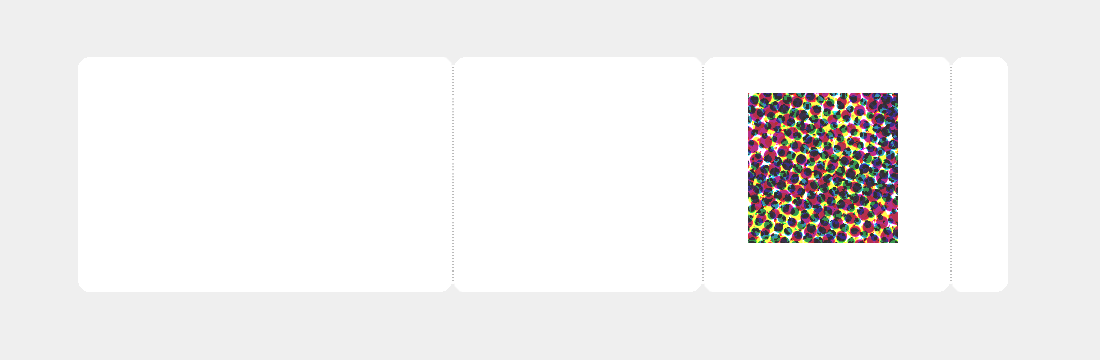
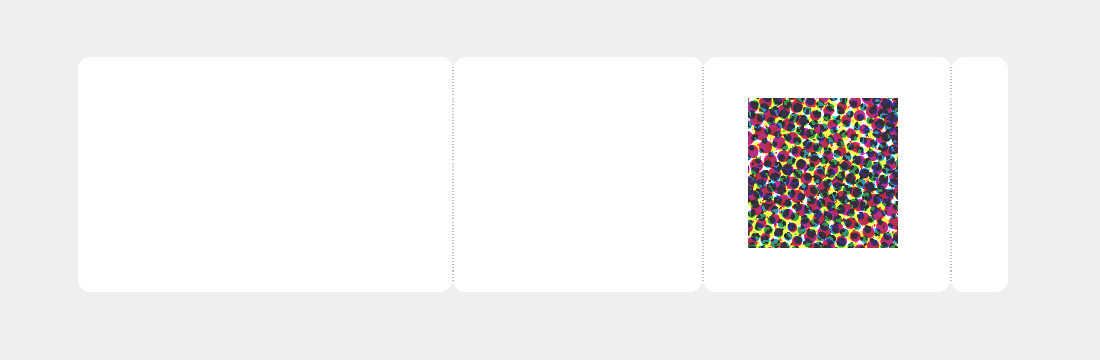
Frame 4 changes

Changed region(s): [[0.68, 0.2444, 0.8345, 0.7028]]

diff --git a/css/style-frames.css b/css/style-frames.css
@@ -446,12 +446,15 @@
   margin-left: 59px;
   width: 320px;
 }
+.frame-4 .coin-wallet .coin-wallet-left .coin-wallet-address.top {
+  display: none;
+}
 .frame-4 .coin-wallet .coin-wallet-right {
   margin-right: 388px;
   padding-top: 33px;
 }
 .frame-4 .coin-wallet .coin-wallet-address-qr {
-  margin-top: 17px;
+  margin-top: 5px;
   margin-left: 13px;
   margin-bottom: 19px;
 }

diff --git a/css/style-frames.less b/css/style-frames.less
@@ -610,6 +610,10 @@
 			margin-top: 37px;
 			margin-left: 59px;
 			width: 320px;
+			.coin-wallet-address.top
+			{
+				display: none;
+			}
 		}
 		.coin-wallet-right
 		{
@@ -618,7 +622,7 @@
 		}
 		.coin-wallet-address-qr
 		{
-			margin-top: 17px;
+			margin-top: 5px;
 			margin-left: 13px;
 			margin-bottom: 19px;
 		}
